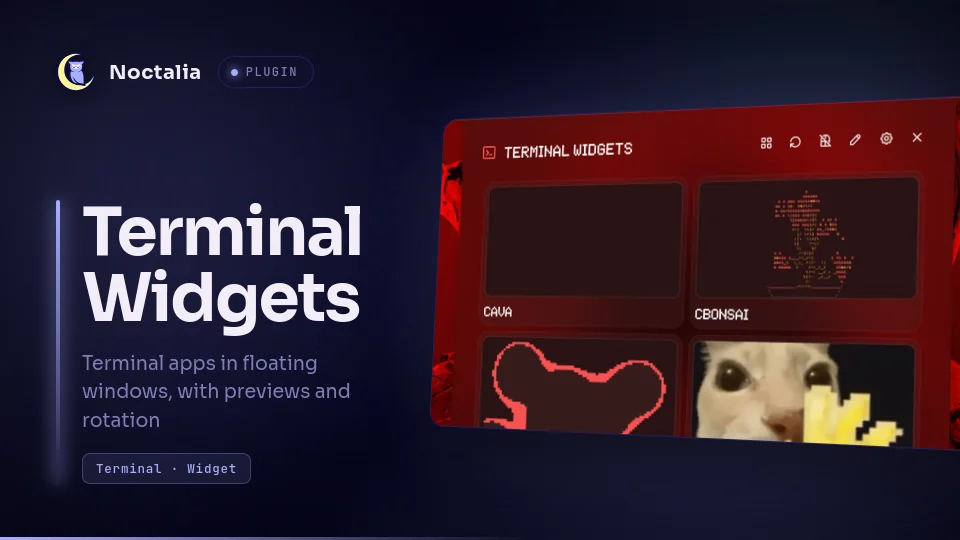
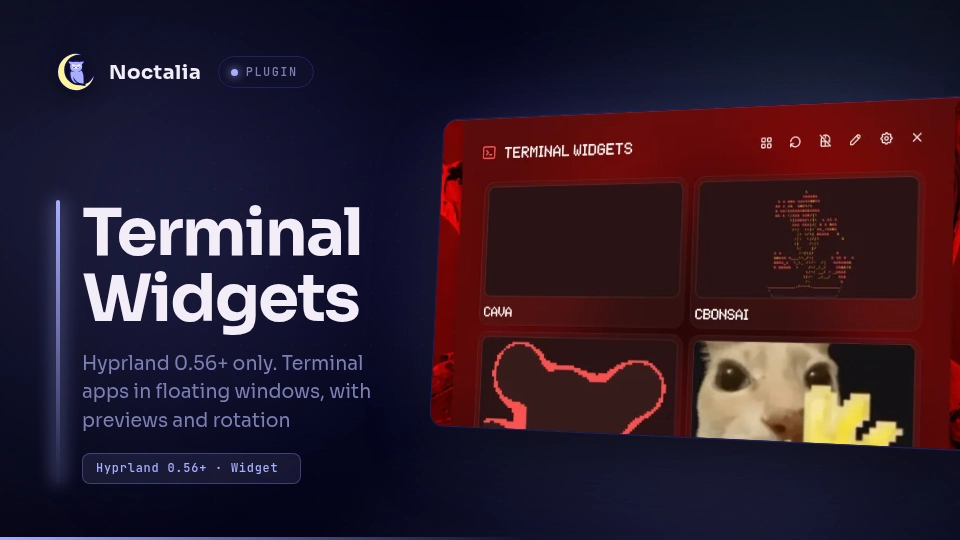
docs(terminal-widgets): miniatura con la etiqueta Hyprland 0.56+
El revisor pide que se vea la restricción de compatibilidad antes de
instalar: la etiqueta y la descripción de la miniatura la dicen ahora, y
el README documenta cómo se generó (generador oficial, acento iris).

diff --git a/terminal-widgets/README.md b/terminal-widgets/README.md
@@ -288,8 +288,10 @@ lines are still reviewed before exiting.
 
 `thumbnail.webp` was exported with the
 [official thumbnail generator](https://assets.noctalia.dev/plugins/thumbnail-generator.html) from
-`screenshots/panel.webp`, with the title `Terminal Widgets`, the tag `Terminal · Widget` and the
-`iris` accent.
+`screenshots/panel.webp`, with the title `Terminal Widgets`, the tag `Hyprland 0.56+ · Widget`,
+the description `Hyprland 0.56+ only. Terminal apps in floating windows, with previews and
+rotation` and the `iris` accent. The label is in the thumbnail on purpose: the plugin only
+works on Hyprland 0.56+, and that has to be visible before installing it.
 
 ### Implementation notes
 
